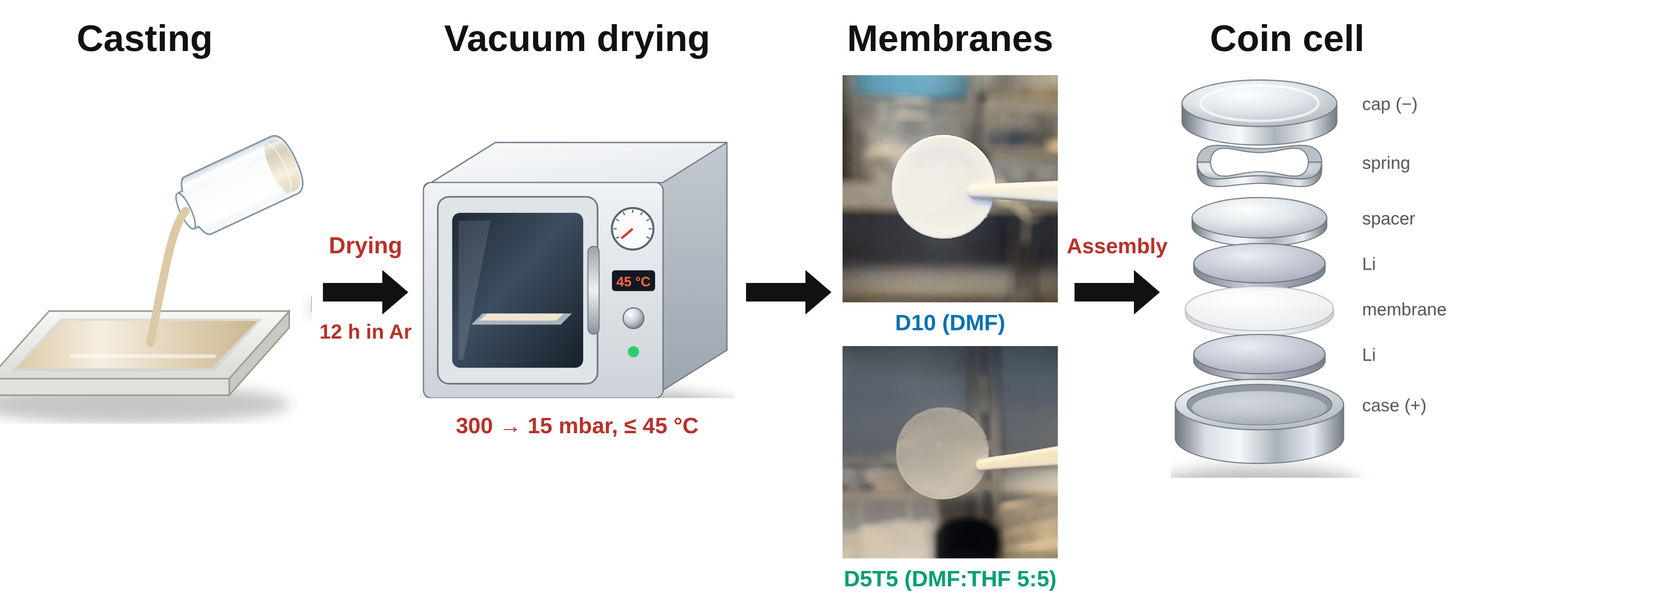
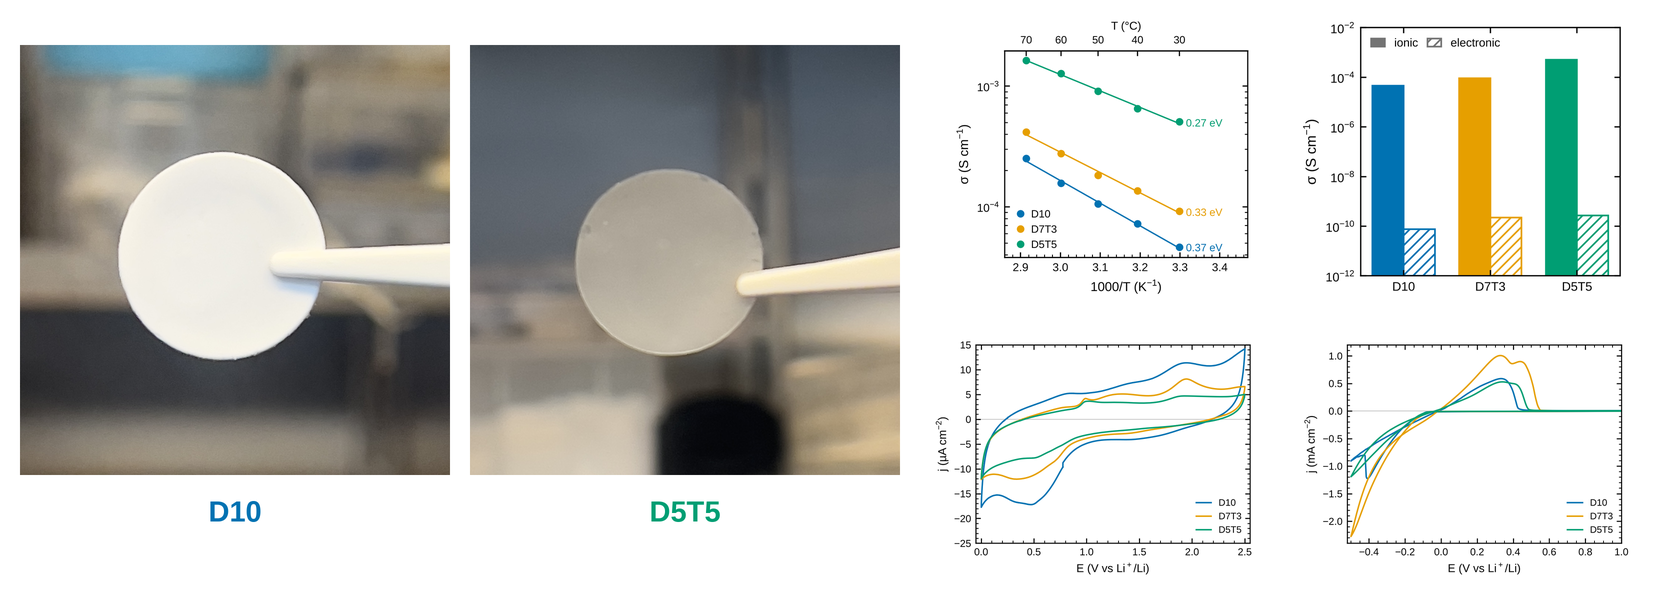
Polymer card thumbnail: membrane photos + electrochemistry; Li|Li 200 h
Claude-Session: https://claude.ai/code/session_011CpiUnPEaysCjyarAkSxyt

diff --git a/research-polymer.html b/research-polymer.html
@@ -161,7 +161,7 @@
           Cyclic voltammetry of Li|Cu cells between 0 and 2.5 V follows SEI
           formation on Cu, and between −0.5 and 2.5 V lithium plating and
           stripping, for all three membranes. Li|Li cells cycle at
-          0.1 mA cm<sup>−2</sup> for 146 h with nearly identical overpotentials
+          0.1 mA cm<sup>−2</sup> for 200 h with nearly identical overpotentials
           for D10 and D5T5.
         </p>
       </div>
